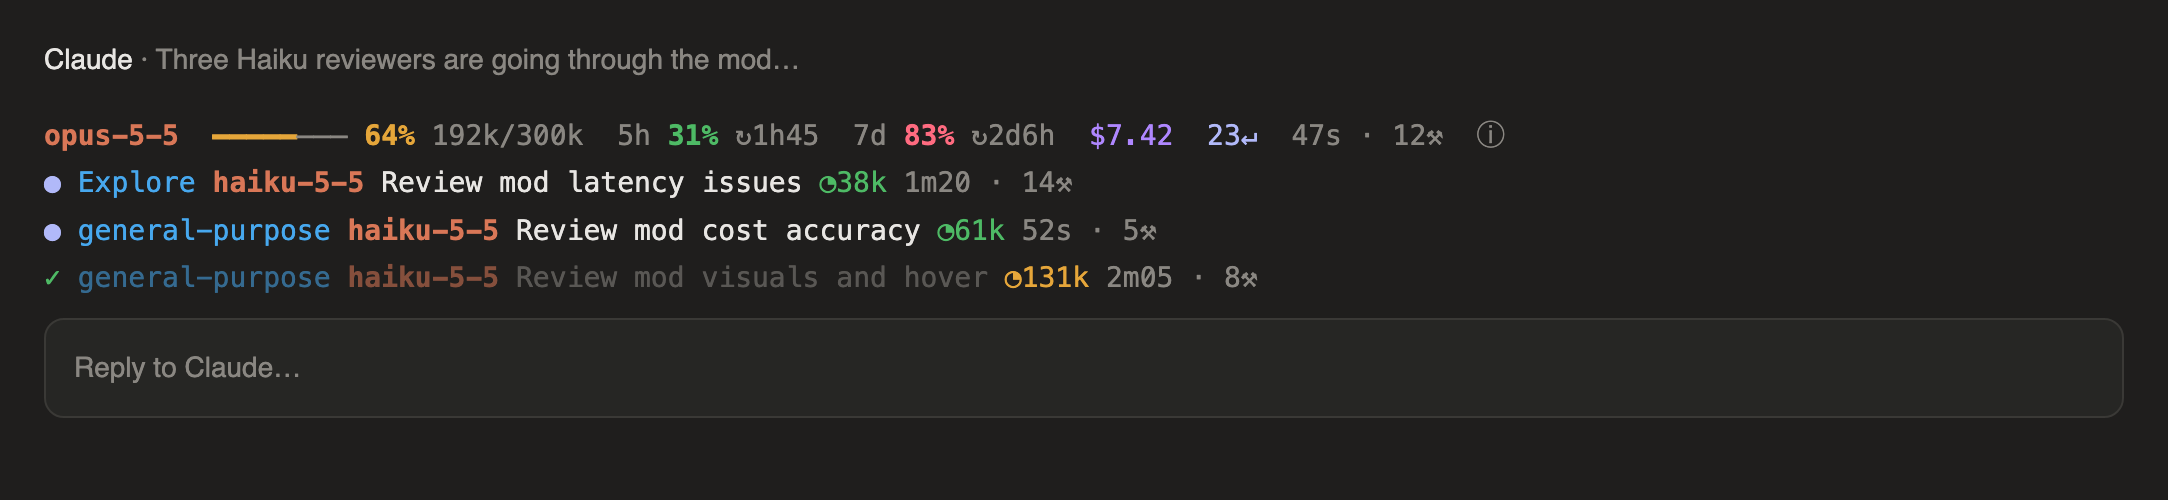
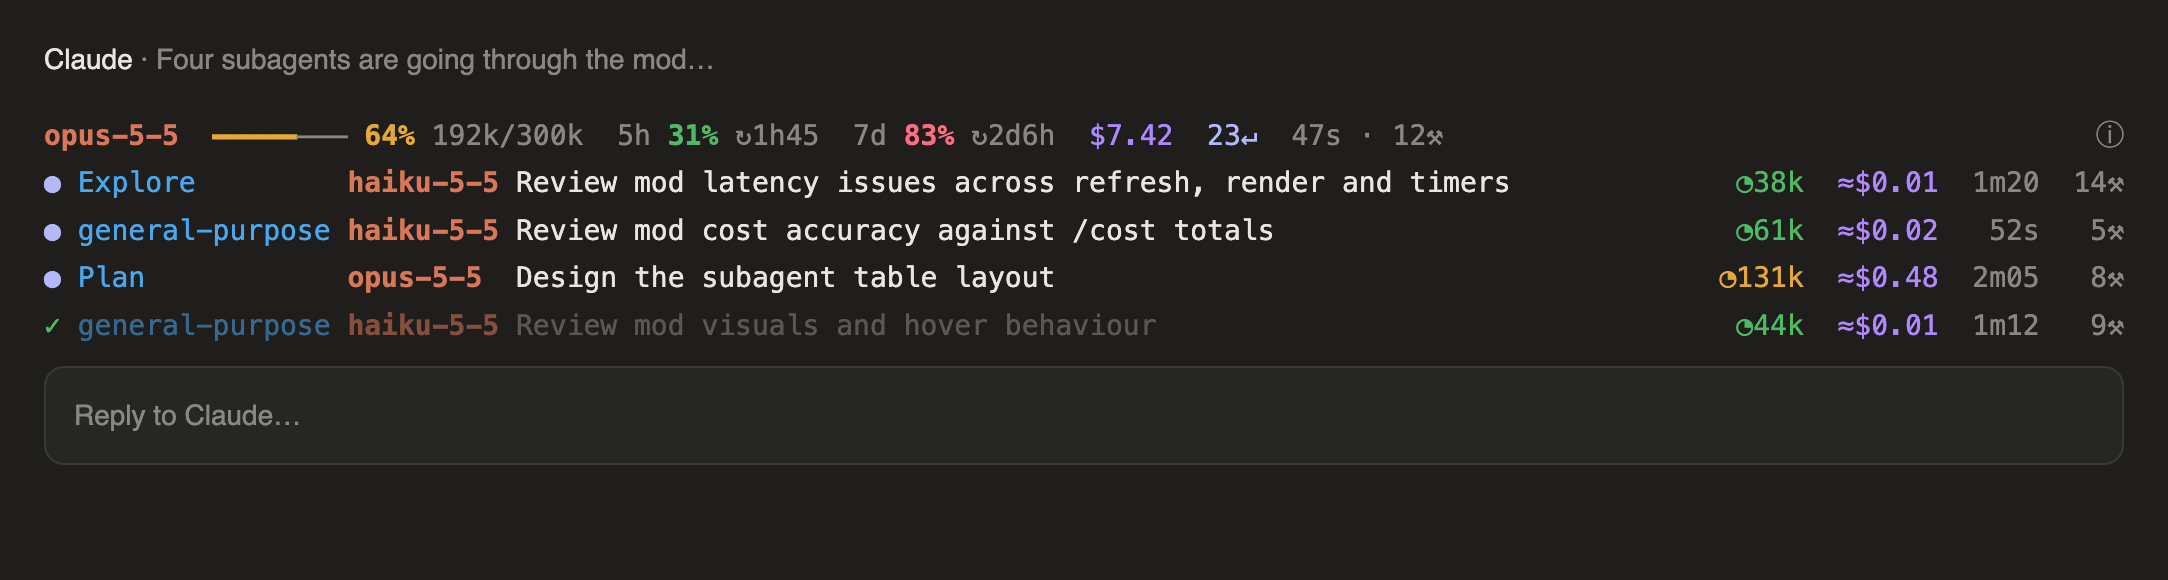
README: screenshots and text for the 0.6.0 band

diff --git a/README.md b/README.md
@@ -8,7 +8,7 @@ A coloured band above the prompt: context, rate limits, cost, and live subagents
 
 ![context-meter band above the prompt](docs/band.png)
 
-Rest the pointer on **ⓘ** for about 0.7 seconds to see what each number means; passing over it does nothing. Where there's no pointer (VS Code, mobile) a **?** button toggles the legend.
+Rest the pointer on **ⓘ** (far right of the first line) for about 0.7 seconds to see what each number means; passing over it does nothing. The legend opens above the band and only takes the rows the band has room for, so ⓘ never moves out from under the pointer. Where there's no pointer (VS Code, mobile) a **?** button toggles it.
 
 ![context-meter legend](docs/band-hover.png)
 
@@ -18,7 +18,7 @@ Rest the pointer on **ⓘ** for about 0.7 seconds to see what each number means;
 - **5h / 7d**: plan rate-limit usage, ↻ time until reset (kept fresh every 30s).
 - **$**: session cost as `/cost` totals it (`<$0.01` for tiny amounts; a resumed session counts from its first launch).
 - **↵** prompts sent · **s · ⚒** last turn's duration and tool calls.
-- **Subagents**, one aligned row each: ● running, ◌ waiting, ✓ done, ✗ failed; type, model, task (as much as fits), ◔ context vs its model's window (200k, or 1M for `[1m]` models), ≈ estimated cost (its requests' tokens at list price), time, tool calls. Finished ones stay 2 min.
+- **Subagents**, one aligned row each: ● running, ◌ waiting, ✓ done, ✗ failed; type, model, task (as much as fits), ◔ context vs its model's window (200k, or 1M for `[1m]` models), ≈ estimated cost (its requests' tokens at list price, cache reads and writes included; Claude Code reports cost only per session), time, tool calls. Finished ones stay 2 min.
 - Refreshes on model switch, compaction, `/clear`, settings changes and every turn. Narrow windows drop the less important parts.
 - Toasts at 60% / 80% context and 80% rate limit.
 
